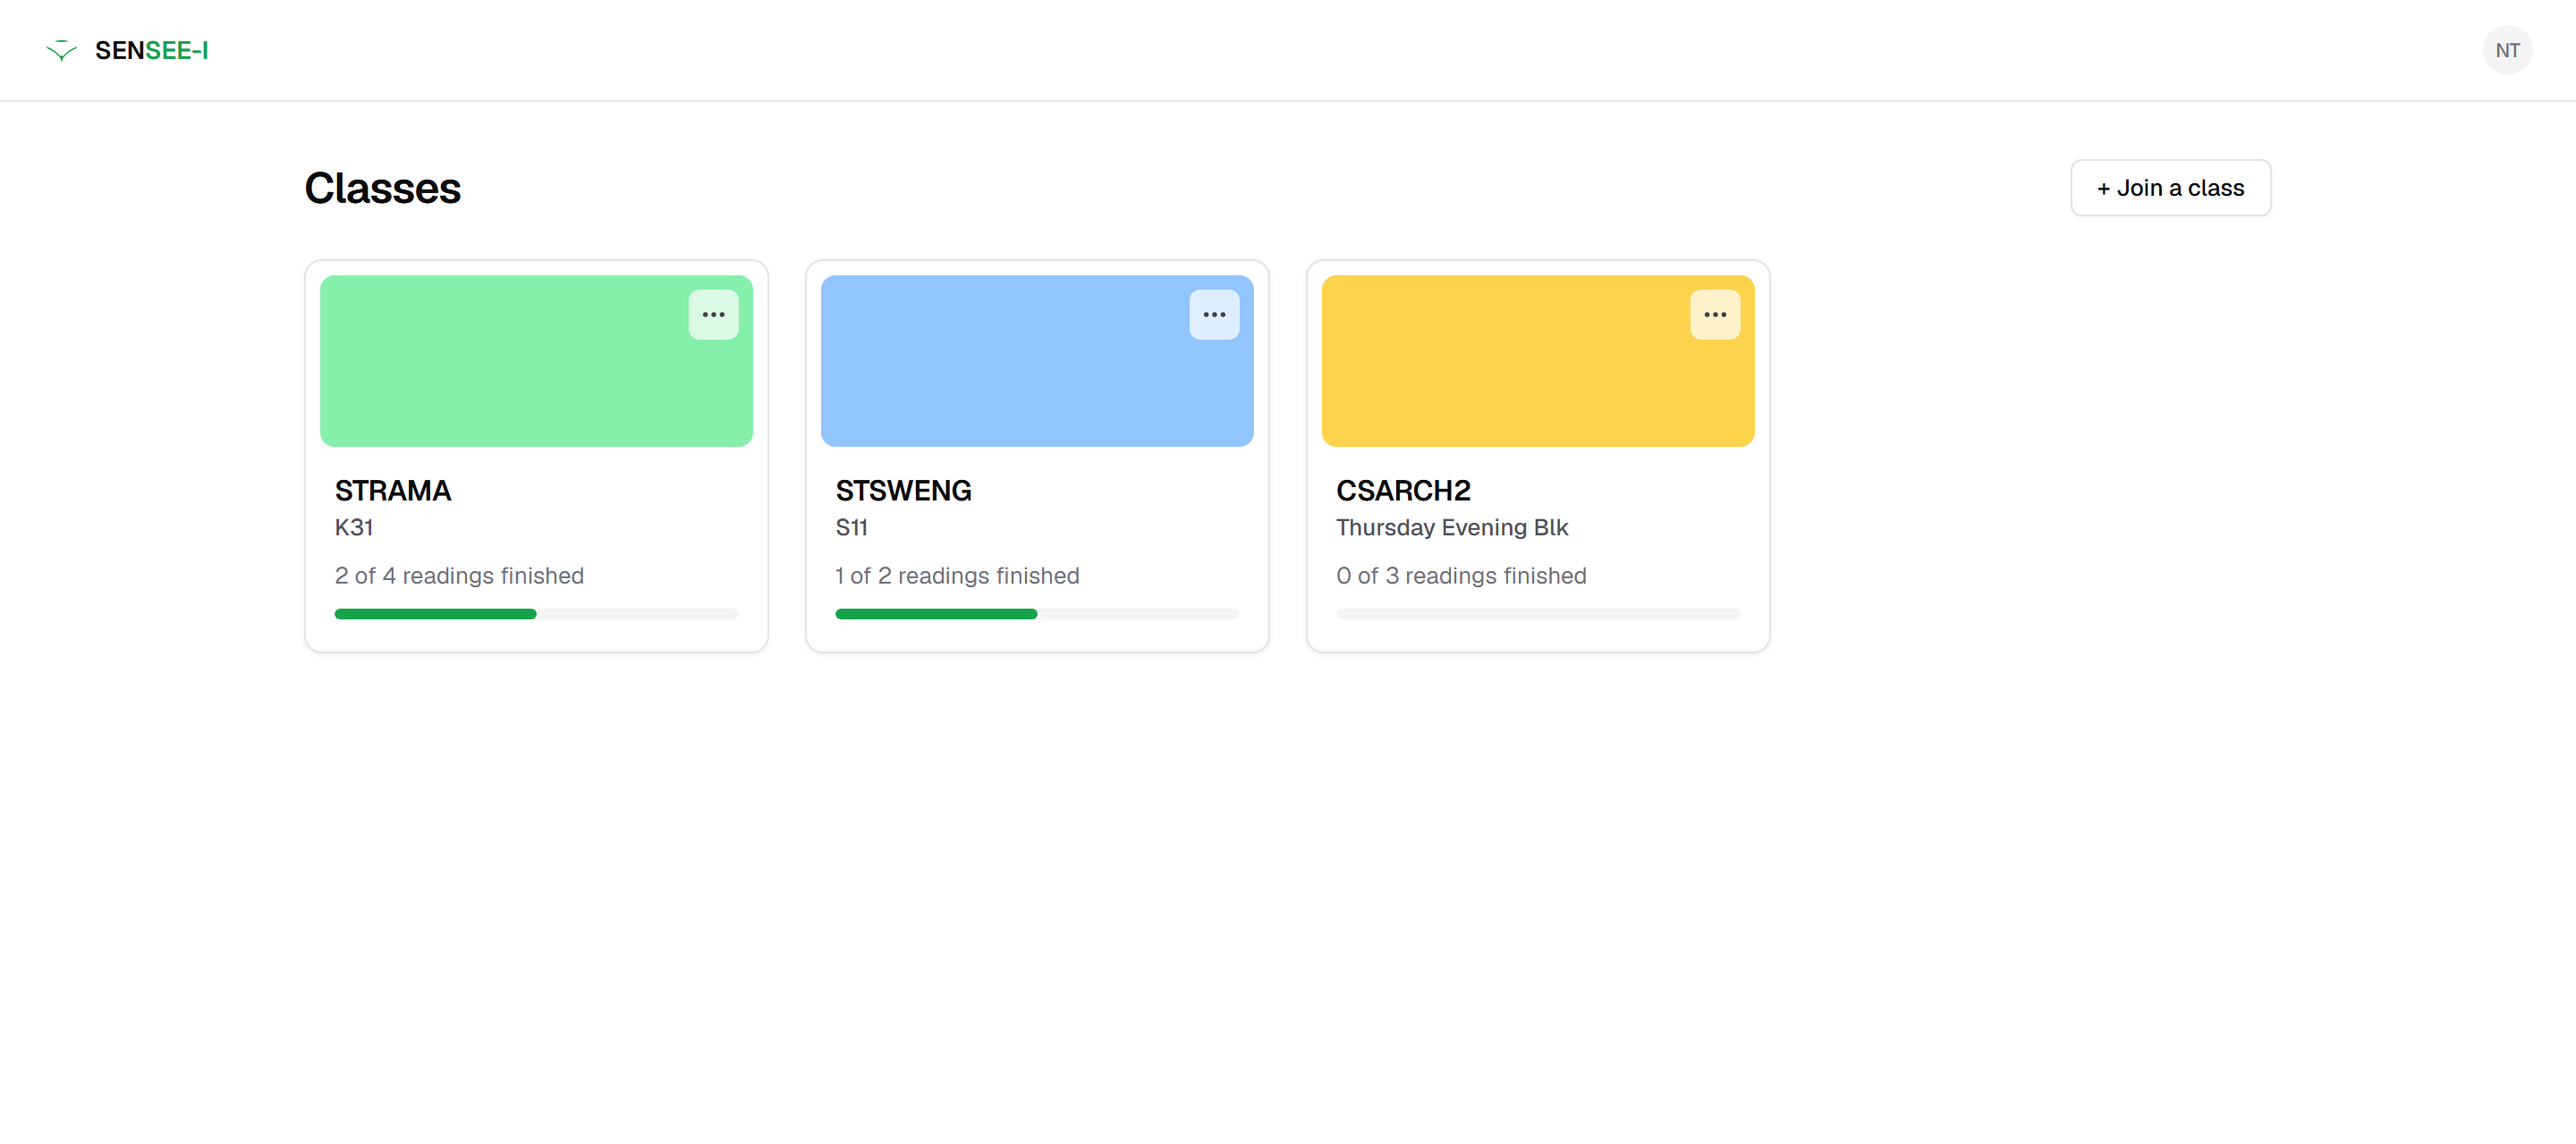
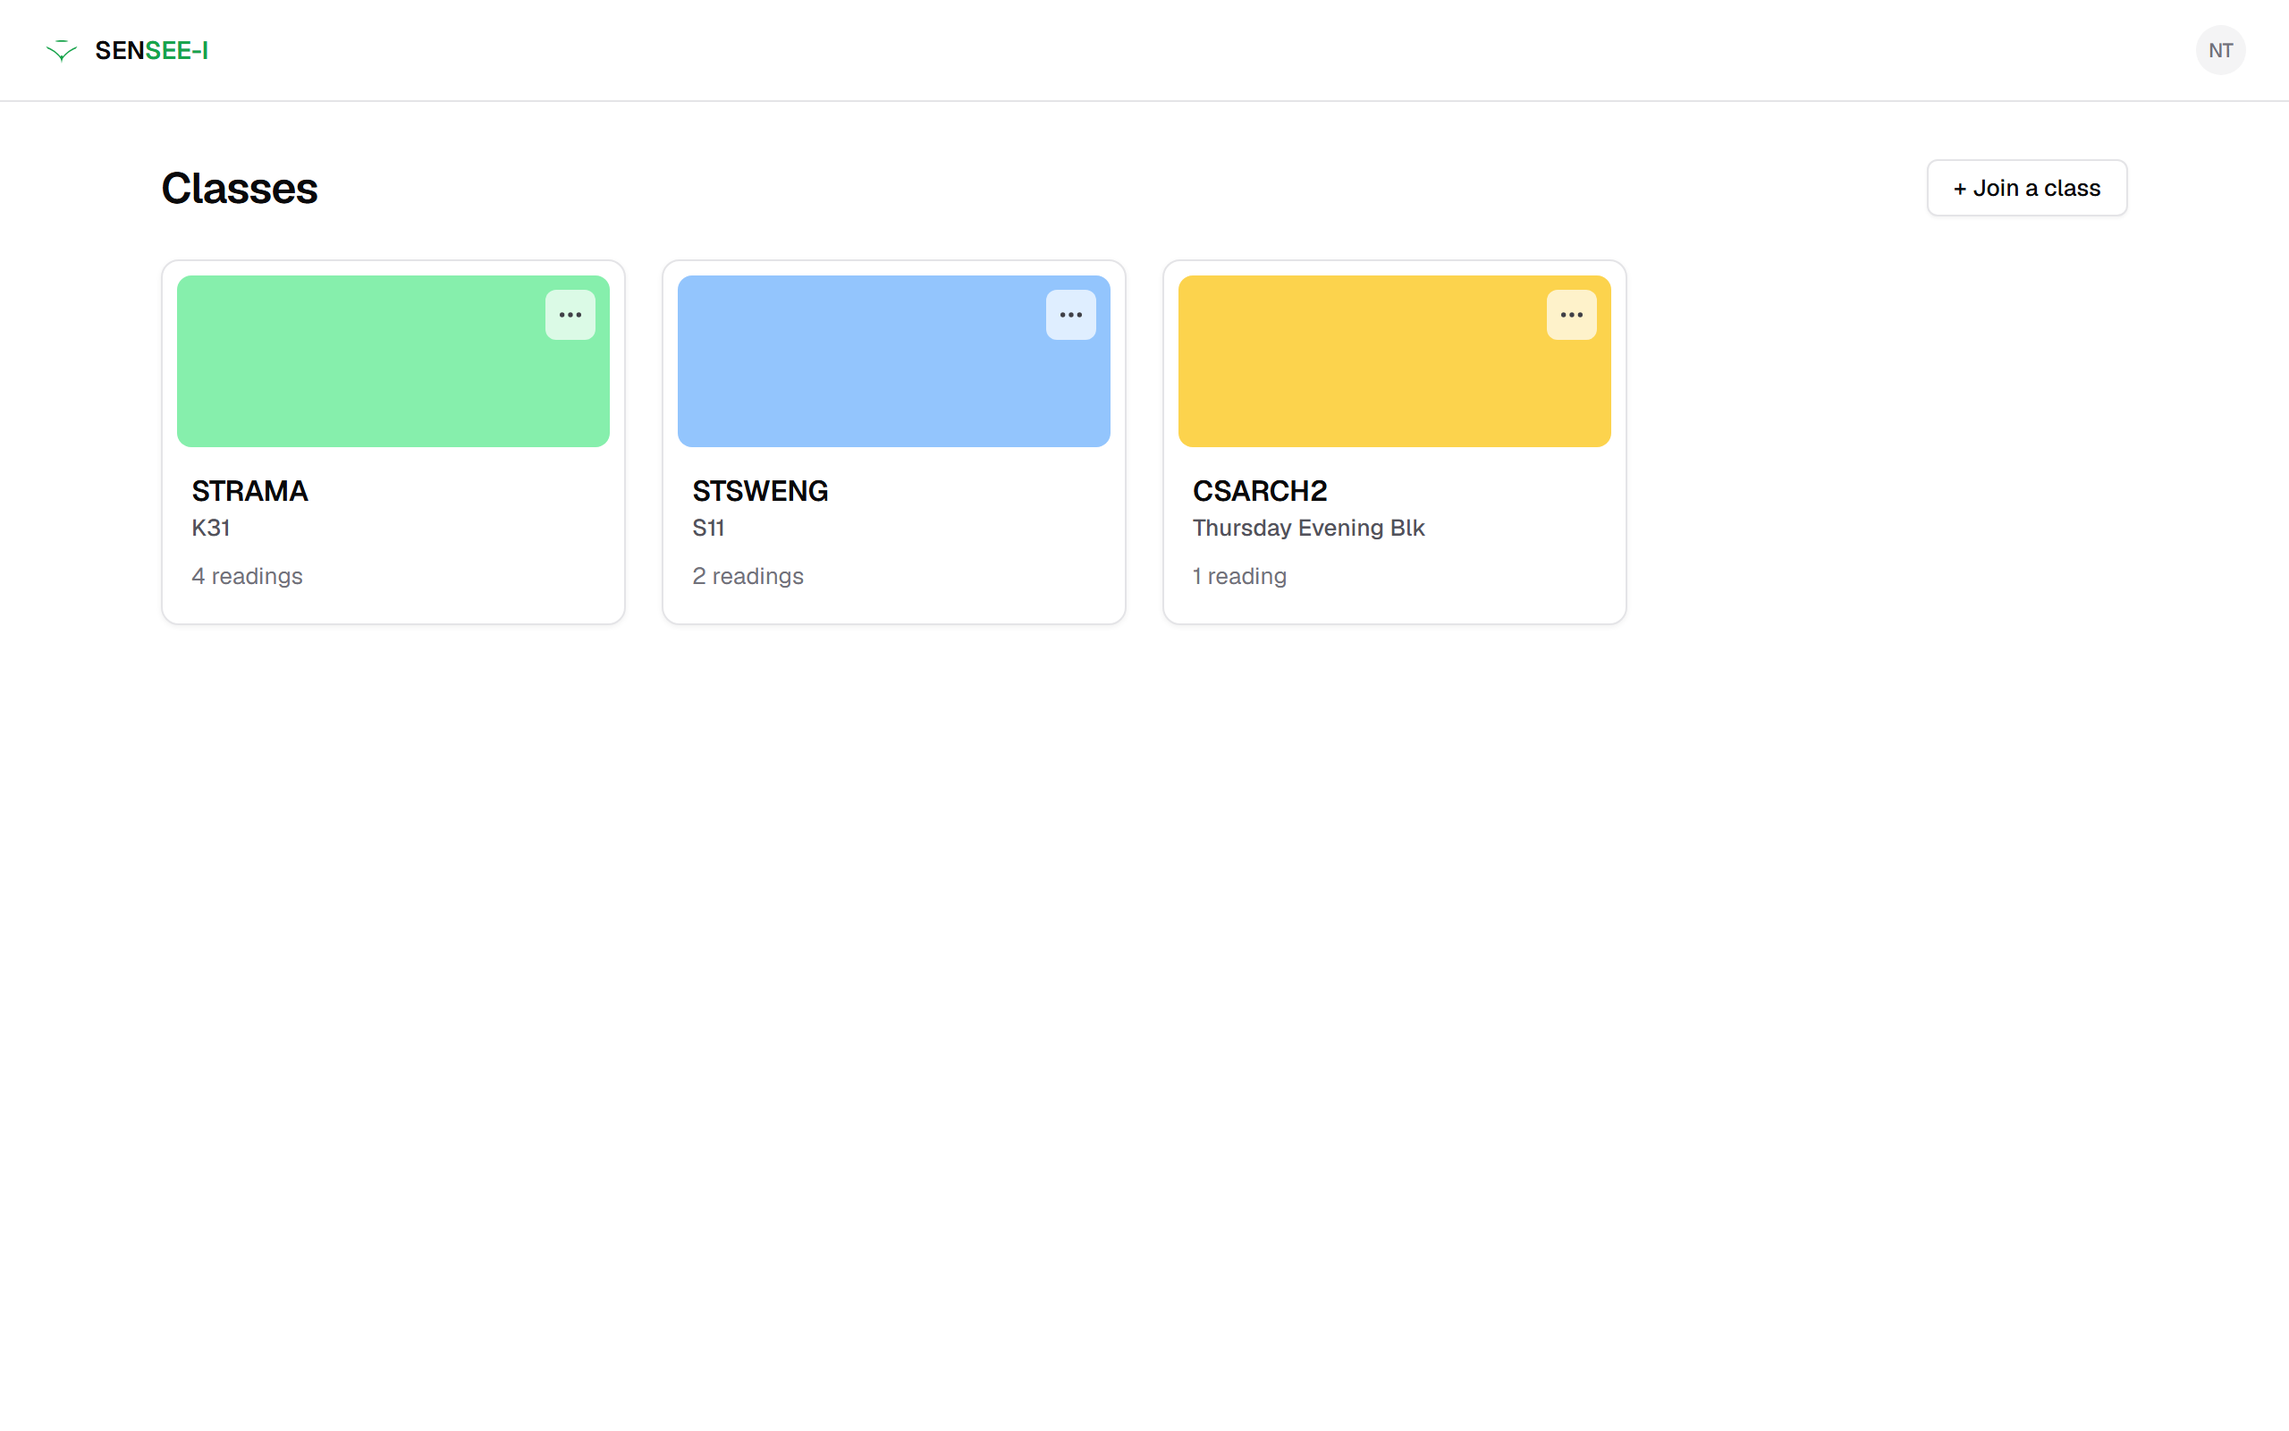
add the not-found mockups and update the docs

diff --git a/design/NotFound.dc.html b/design/NotFound.dc.html
@@ -1,0 +1,66 @@
+<!doctype html>
+<html>
+<head>
+  <meta charset="utf-8">
+  <meta name="viewport" content="width=device-width, initial-scale=1">
+  <script src="./support.js"></script>
+</head>
+<body>
+<x-dc>
+<helmet>
+  <link rel="stylesheet" href="https://fonts.googleapis.com/css2?family=Geist:wght@400;500;600&display=swap">
+  <style>
+    html, body { height: 100%; }
+    body { margin: 0; font-family: 'Geist', ui-sans-serif, system-ui, sans-serif; -webkit-font-smoothing: antialiased; color: #09090b; background: #ffffff; }
+    .app { height: 100vh; display: flex; flex-direction: column; }
+    .top { display: flex; align-items: center; justify-content: space-between; height: 56px; padding: 0 24px; border-bottom: 1px solid #e4e4e7; flex-shrink: 0; }
+    .icons { display: flex; gap: 10px; }
+    .icons span { width: 32px; height: 32px; border-radius: 999px; background: #f4f4f5; display: block; }
+    .main { flex: 1; display: flex; align-items: center; justify-content: center; padding: 24px; }
+    .box { max-width: 420px; text-align: center; display: flex; flex-direction: column; align-items: center; }
+    h1 { margin: 0; font-size: 20px; font-weight: 600; letter-spacing: -0.02em; }
+    p { margin: 8px 0 0; font-size: 14px; line-height: 1.6; color: #52525b; }
+    .btns { display: flex; gap: 8px; margin-top: 20px; }
+    .btn { height: 36px; padding: 0 16px; border-radius: 6px; font-family: inherit; font-size: 14px; font-weight: 500; border: 1px solid transparent; background: #16a34a; color: #ffffff; }
+    .btn.sec { background: #ffffff; color: #09090b; border-color: #e4e4e7; }
+    @media (max-width: 639px) {
+      .top { padding: 0 16px; }
+      .box { width: 100%; }
+      .btns { flex-direction: column-reverse; width: 100%; }
+      .btn { width: 100%; height: 40px; }
+    }
+  </style>
+</helmet>
+<div class="app">
+  <div class="top">
+    <span style="font-size: 15px; font-weight: 600; letter-spacing: -0.01em;">SEN<span style="color: #16a34a;">SEE-I</span></span>
+    <div class="icons"><span></span><span></span></div>
+  </div>
+  <div class="main">
+    <div class="box">
+      <h1>{{title}}</h1>
+      <p>{{body}}</p>
+      <div class="btns">
+        <sc-if value="{{crash}}"><button class="btn sec">Reload page</button></sc-if>
+        <button class="btn">Back to classes</button>
+      </div>
+    </div>
+  </div>
+</div>
+</x-dc>
+<script data-dc-script data-props='{"screen":{"editor":"select","options":["notfound","crash"],"default":"notfound"}}'>
+class Component extends DCLogic {
+  renderVals() {
+    const crash = (this.props.screen ?? 'notfound') === 'crash';
+    return {
+      crash,
+      title: crash ? 'Something went wrong' : 'Page not found',
+      body: crash
+        ? 'This page ran into a problem. Reload it, or go back to your classes.'
+        : "This page doesn't exist. Check the link, or go back to your classes.",
+    };
+  }
+}
+</script>
+</body>
+</html>

diff --git a/design/ReadingStep.dc.html b/design/ReadingStep.dc.html
@@ -32,7 +32,7 @@
       <svg width="14" height="14" viewBox="0 0 24 24" fill="none" stroke="#71717a" stroke-width="2" stroke-linecap="round" stroke-linejoin="round">
         <path d="M15 18l-6-6 6-6"></path>
       </svg>
-      <span style="font-size: 13px; color: #71717a;">Readings</span>
+      <span style="font-size: 13px; color: #71717a;">Back</span>
     </div>
     <div style="width: 1px; height: 16px; background: #e4e4e7;"></div>
     <span style="font-size: 14px; font-weight: 500; letter-spacing: -0.005em;">{{title}}</span>
@@ -124,6 +124,20 @@
   <!-- The first thing the student sees. A dialog rather than a banner on the
        page, so it is read once and dismissed, instead of sitting above the
        reading competing with it. -->
+  <sc-if value="{{isLeave}}" hint-placeholder-val="{{false}}">
+    <div style="position: absolute; inset: 0; background: rgba(0,0,0,0.3); display: flex; align-items: center; justify-content: center;">
+      <div style="width: 420px; background: #ffffff; border-radius: 8px; box-shadow: 0 10px 15px -3px rgba(0,0,0,0.1), 0 4px 6px -4px rgba(0,0,0,0.1); padding: 24px;">
+        <div style="font-size: 16px; font-weight: 600; margin-bottom: 8px;">Leave this reading?</div>
+        <div style="font-size: 14px; line-height: 1.6; color: #71717a;">
+          You haven't started the session yet, but you will lose your place in the reading.
+        </div>
+        <div style="display: flex; justify-content: flex-end; gap: 8px; margin-top: 20px;">
+          <button style="height: 32px; padding: 0 12px; border: 1px solid #e4e4e7; border-radius: 6px; background: #ffffff; font-family: inherit; font-size: 13px; font-weight: 500;">Stay</button>
+          <button style="height: 32px; padding: 0 12px; border: none; border-radius: 6px; background: {{primary}}; color: #ffffff; font-family: inherit; font-size: 13px; font-weight: 500;">Leave</button>
+        </div>
+      </div>
+    </div>
+  </sc-if>
   <sc-if value="{{isIntro}}" hint-placeholder-val="{{true}}">
     <div style="position: absolute; inset: 0; background: rgba(0,0,0,0.3); display: flex; align-items: center; justify-content: center;">
       <div style="width: 420px; background: #ffffff; border-radius: 8px; box-shadow: 0 10px 15px -3px rgba(0,0,0,0.1), 0 4px 6px -4px rgba(0,0,0,0.1); padding: 24px;">
@@ -155,6 +169,7 @@ class Component extends DCLogic {
       isPdf,
       isText,
       isIntro: state === 'Intro dialog',
+      isLeave: state === 'Leave dialog',
       title: 'Cognitive Offloading',
       section: 'STRAMA K31',
       // The PDF viewer fits the page to the pane and stops growing at 900px, so

diff --git a/design/StudentClasses.dc.html b/design/StudentClasses.dc.html
@@ -72,8 +72,7 @@
           <sc-if value="{{joined}}"><div class="name">{{c.name}} {{c.section}}</div></sc-if>
           <sc-if value="{{under}}"><div><div class="name">{{c.name}}</div><div class="sec">{{c.section}}</div></div></sc-if>
           <sc-if value="{{chip}}"><div class="name">{{c.name}}</div></sc-if>
-          <span class="meta">{{c.done}} of {{c.total}} readings finished</span>
-          <div class="bar"><div style="width: {{c.pct}}%;"></div></div>
+          <span class="meta">{{c.count}}</span>
         </div>
       </div>
       </sc-for>
@@ -90,9 +89,9 @@ class Component extends DCLogic {
       under: layout === 'under',
       chip: layout === 'chip',
       cards: [
-        { name: 'STRAMA', section: 'K31', colour: '#86efac', done: 2, total: 4, pct: 50 },
-        { name: 'STSWENG', section: 'S11', colour: '#93c5fd', done: 1, total: 2, pct: 50 },
-        { name: 'CSARCH2', section: 'Thursday Evening Blk', colour: '#fcd34d', done: 0, total: 3, pct: 0 },
+        { name: 'STRAMA', section: 'K31', colour: '#86efac', count: '4 readings' },
+        { name: 'STSWENG', section: 'S11', colour: '#93c5fd', count: '2 readings' },
+        { name: 'CSARCH2', section: 'Thursday Evening Blk', colour: '#fcd34d', count: '1 reading' },
       ],
     };
   }

diff --git a/design/README.md b/design/README.md
@@ -42,6 +42,7 @@ design changes, so it always matches.
 | Reading step, intro dialog | [png/03c-reading-step-intro.png](png/03c-reading-step-intro.png) |
 | Reading step | [png/03c-reading-step.png](png/03c-reading-step.png) |
 | Reading step, text fallback | [png/03c-reading-step-text.png](png/03c-reading-step-text.png) |
+| Reading step, leaving before Done | [png/03c-reading-step-leave.png](png/03c-reading-step-leave.png) |
 | Tutoring session | [png/04-tutoring-session.png](png/04-tutoring-session.png) |
 | Tutoring session, PDF reading | [png/04b-tutoring-pdf-reading.png](png/04b-tutoring-pdf-reading.png) |
 | Criterion feedback, six approaches | [png/04c-criterion-feedback.png](png/04c-criterion-feedback.png) |
@@ -68,6 +69,10 @@ design changes, so it always matches.
 | Reading failed, reading step, phone | [png/05d-7-readfail-phone.png](png/05d-7-readfail-phone.png) |
 | Reading not available | [png/05d-8-readmissing.png](png/05d-8-readmissing.png) |
 | Reading not available, phone | [png/05d-8-readmissing-phone.png](png/05d-8-readmissing-phone.png) |
+| Page not found | [png/08-notfound.png](png/08-notfound.png) |
+| Page not found, phone | [png/08-notfound-phone.png](png/08-notfound-phone.png) |
+| Page crashed | [png/08-crash.png](png/08-crash.png) |
+| Page crashed, phone | [png/08-crash-phone.png](png/08-crash-phone.png) |
 | Instructor classes | [png/06-classes.png](png/06-classes.png) |
 | Instructor classes, empty | [png/06-classes-empty.png](png/06-classes-empty.png) |
 | New class | [png/06-new-class.png](png/06-new-class.png) |

diff --git a/docs/context/student-tutoring-loop.md b/docs/context/student-tutoring-loop.md
@@ -59,8 +59,8 @@ cut off by time is kept and counted, never discarded.
 ## Entering a session
 
 1. **Classes, then readings.** The student opens the app to the classes they
-   are enrolled in, each with how many of its readings they have finished, and
-   opens a class to see its readings. Enrolment determines visibility: a student
+   are enrolled in, each with how many readings it has, and opens a class to see
+   its readings, with how many are still to do and how many are finished. Enrolment determines visibility: a student
    sees a reading only if one of their classes has it assigned.
 2. **Core components.** Each reading carries one or more core components, the
    essential defining parts of the concept, supplied by the instructor at upload.
@@ -85,7 +85,8 @@ cut off by time is kept and counted, never discarded.
    opening dialog names the concept the session is about. The student must
    explicitly tell the system they have finished; there is no automatic advance,
    and the button is never gated on scroll position, because scrolling is not
-   reading.
+   reading. Back returns to the reading's page, after asking, since the student
+   would lose their place.
 7. **Tutoring.** A split screen appears, reading on one half and chat on the
    other. The SEE-I process begins with State.
 
